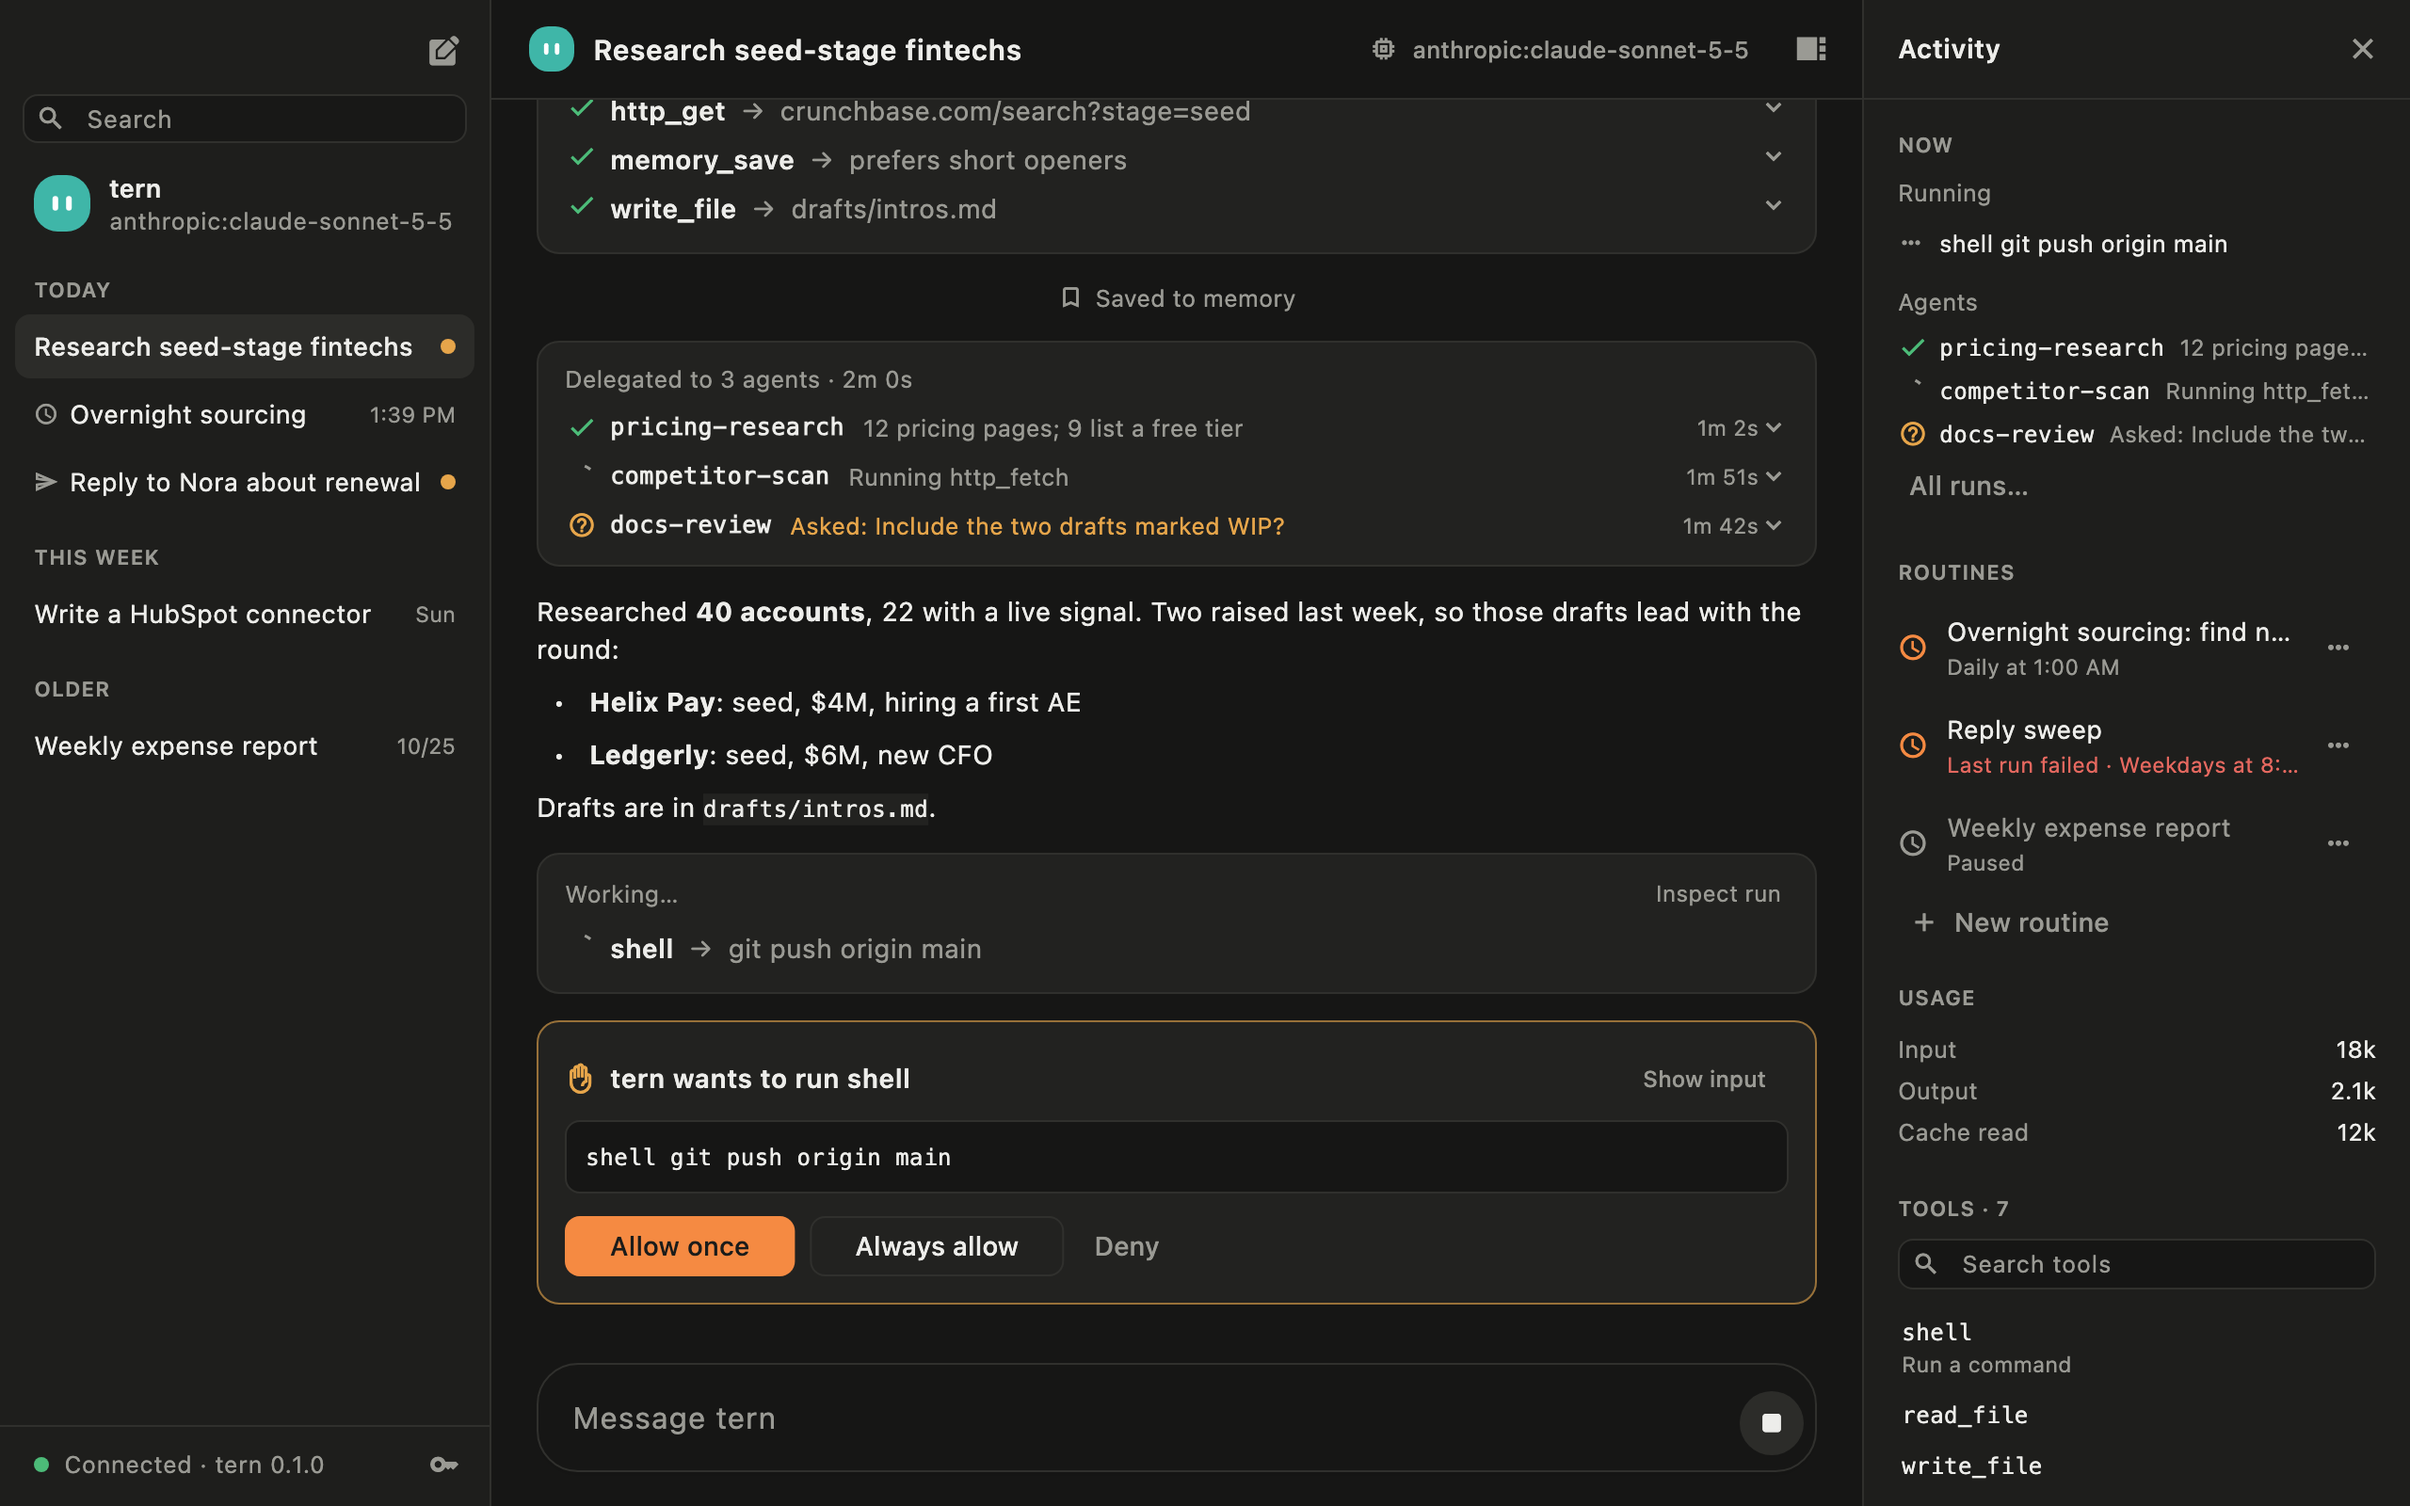
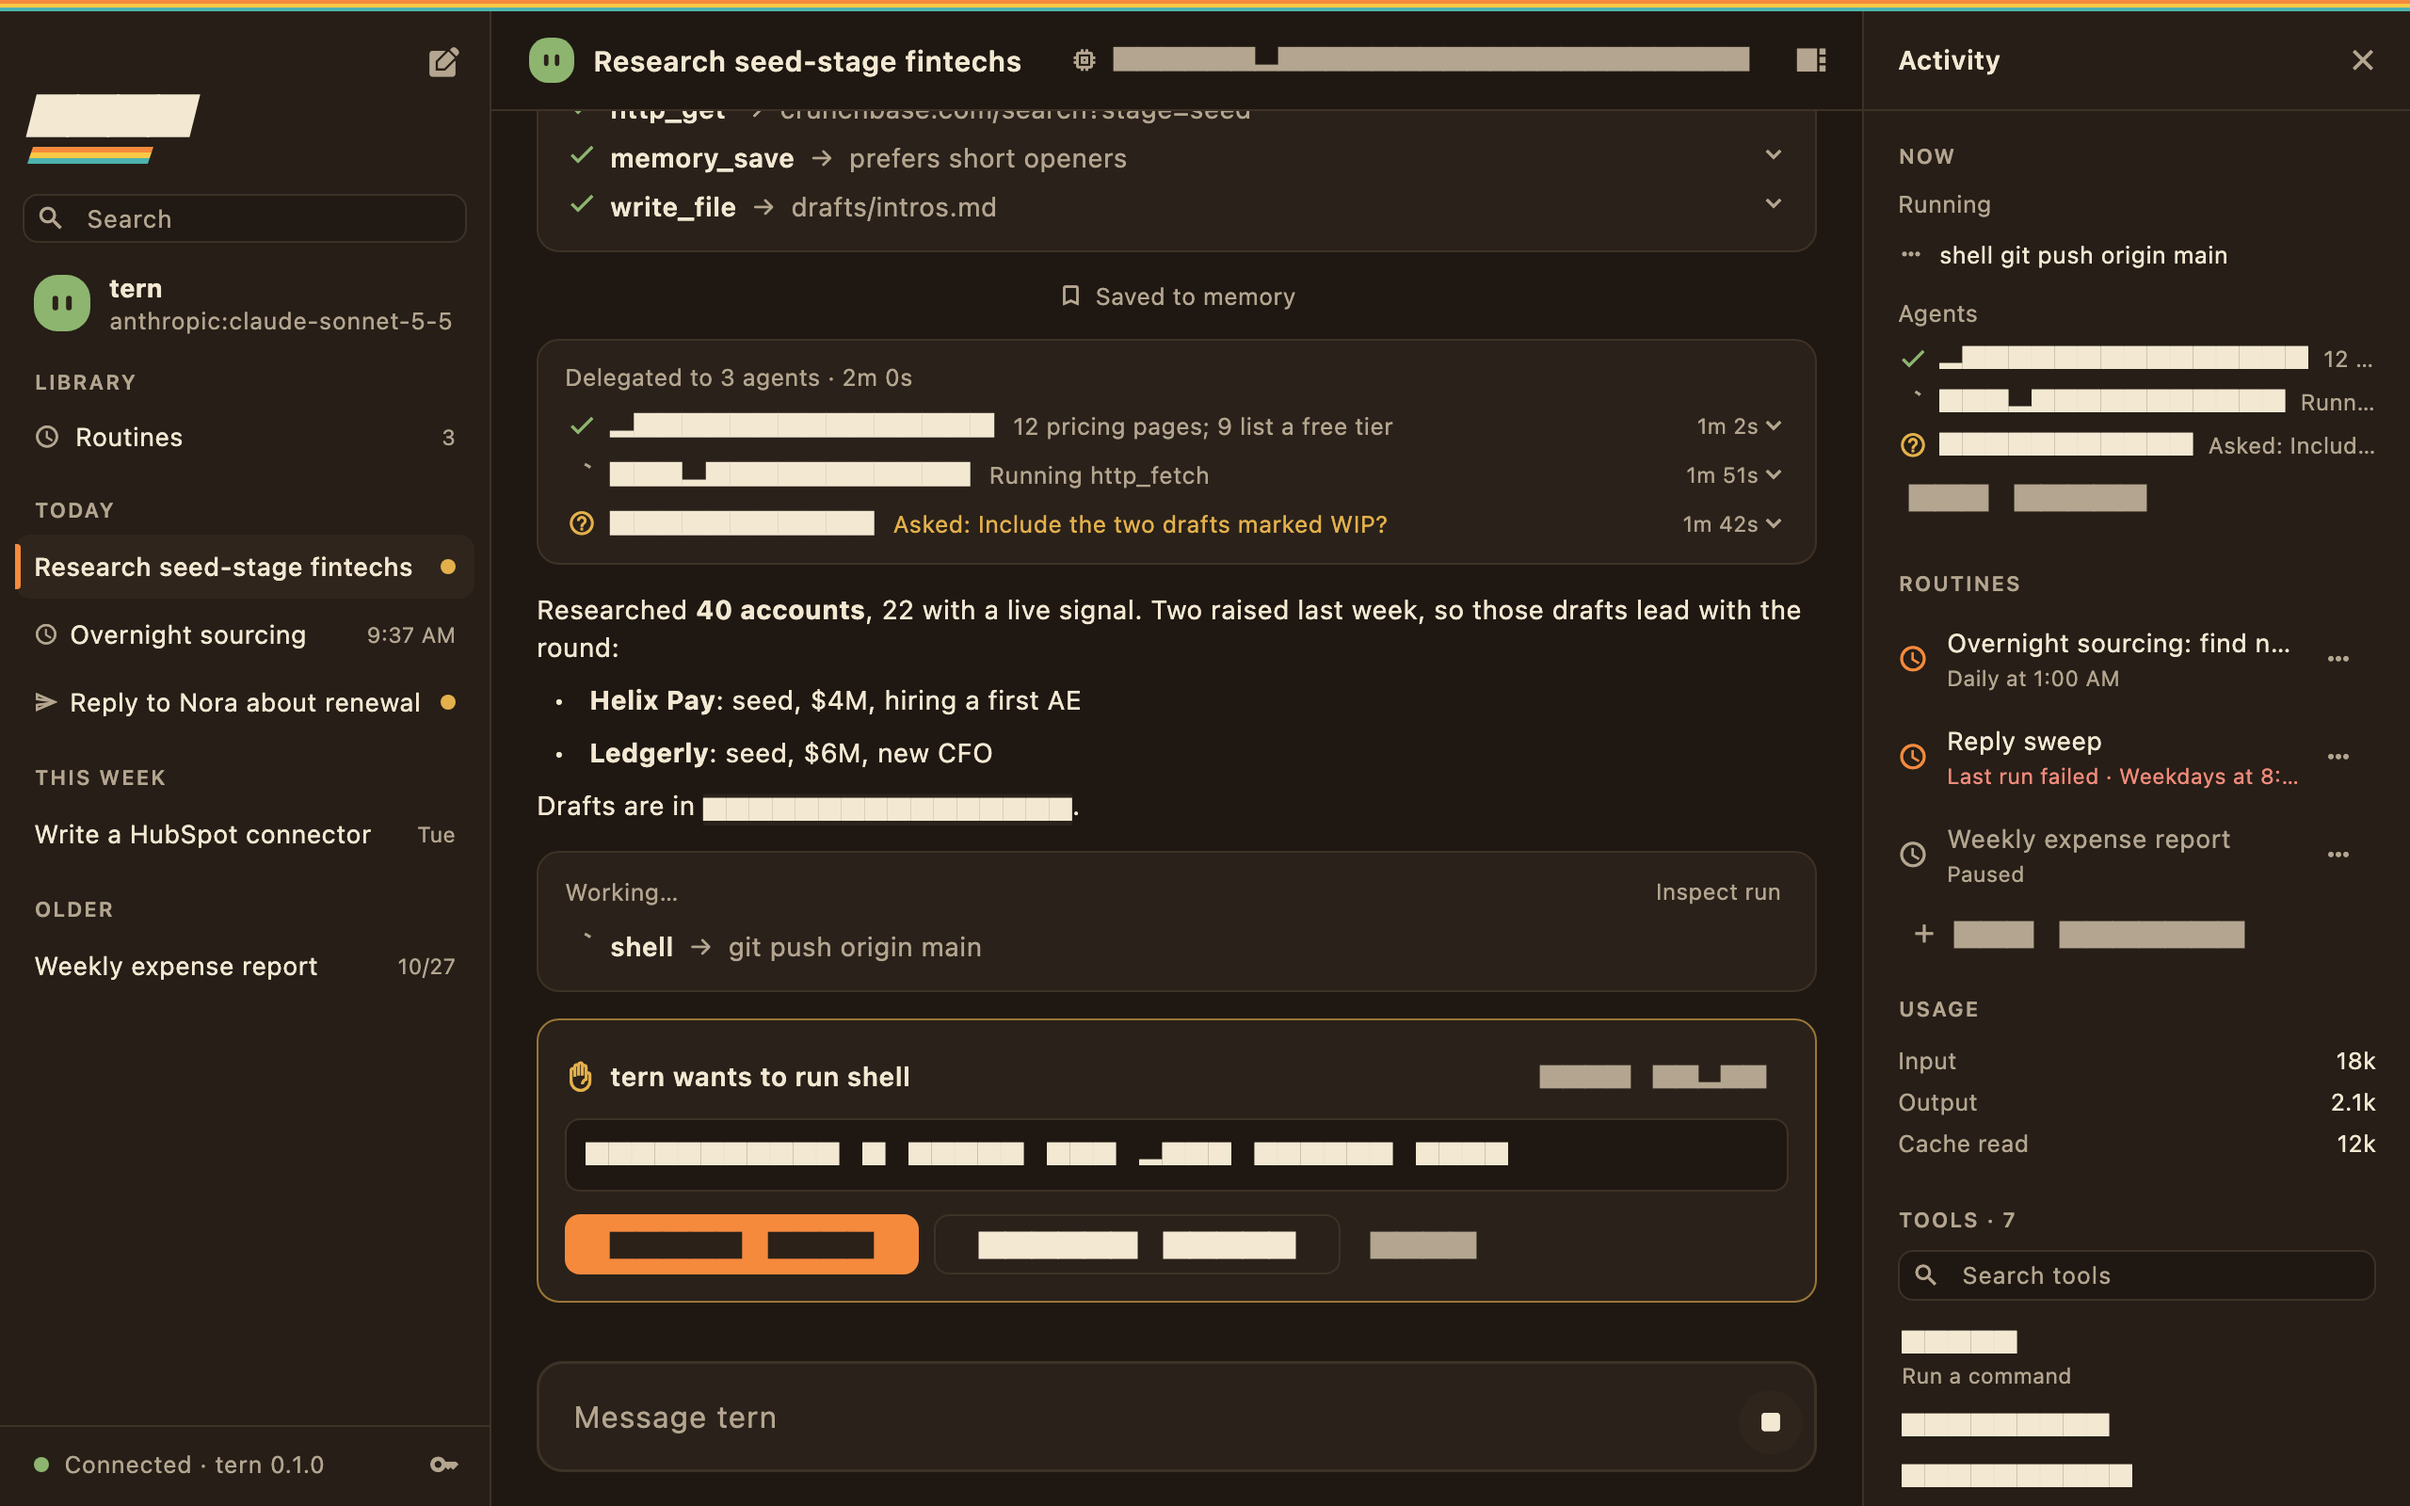
Brand: stripe is now orange / yellow / teal (red read as a flag on dark); red kept for destructive only

diff --git a/docs/brand/style-sheet.html b/docs/brand/style-sheet.html
@@ -10,7 +10,8 @@
 <style>
 :root {
   /* stripes */
-  --red: #D93A2B;
+  --red: #D93A2B; /* destructive only, not a stripe */
+  --teal: #2A8C8C;
   --orange: #F07A2B;
   --yellow: #F6B92B;
   /* surfaces */
@@ -43,9 +44,9 @@ body {
 /* ---------- the stripe motif ---------- */
 .stripes { display: grid; gap: 0; }
 .stripes i { display: block; }
-.stripes i:nth-child(1) { background: var(--red); }
-.stripes i:nth-child(2) { background: var(--orange); }
-.stripes i:nth-child(3) { background: var(--yellow); }
+.stripes i:nth-child(1) { background: var(--orange); }
+.stripes i:nth-child(2) { background: var(--yellow); }
+.stripes i:nth-child(3) { background: var(--teal); }
 .stripes.h > i { height: var(--t, 10px); }
 .stripes.v { grid-auto-flow: column; }
 .stripes.v > i { width: var(--t, 10px); }
@@ -138,7 +139,7 @@ p.lede { max-width: 620px; color: var(--muted); margin-bottom: 8px; }
 .dark-panel {
   --cream: #1F1812; --paper: #2A211A; --sand: #261E17; --hairline: #3D3226;
   --ink: #F3E8D2; --muted: #B3A58F; --link: #F08A7A;
-  --red: #E5483A; --orange: #F58A3D; --yellow: #F9C846;
+  --red: #E5483A; --teal: #4DB3AE; --orange: #F58A3D; --yellow: #F9C846;
   --ok: #8DB56F; --warn: #E3B04B; --error: #F08A7A;
   background: var(--cream); color: var(--ink); border-radius: 14px; padding: 28px; border: 1px solid var(--hairline);
 }
@@ -177,11 +178,11 @@ footer { padding: 40px 0 64px; border-top: 1px solid var(--hairline); color: var
   <!-- 01 -->
   <section>
     <div class="sec-head"><span class="n">01</span><h2>Stripe colors</h2></div>
-    <p class="lede">The three stripes are the whole brand. Always stacked in this order, red on top, orange in the middle, yellow on the bottom. They are decoration and emphasis, not body text.</p>
+    <p class="lede">The three stripes are the whole brand. Always stacked in this order, orange on top, yellow in the middle, teal on the bottom. They are decoration and emphasis, not body text.</p>
     <div class="stripe-row" style="margin-top:20px">
-      <div class="sw"><div class="chip" style="background:var(--red)"></div><div class="meta"><b>Stripe Red</b><code>#D93A2B</code><small>Danger fill, top stripe, destructive buttons.</small></div></div>
-      <div class="sw"><div class="chip" style="background:var(--orange)"></div><div class="meta"><b>Stripe Orange</b><code>#F07A2B</code><small>The primary accent. Primary buttons, selection edge, focus. Carries over from today's app.</small></div></div>
-      <div class="sw"><div class="chip" style="background:var(--yellow)"></div><div class="meta"><b>Stripe Yellow</b><code>#F6B92B</code><small>Highlights, hover, focus glow, bottom stripe.</small></div></div>
+      <div class="sw"><div class="chip" style="background:var(--orange)"></div><div class="meta"><b>Stripe Orange</b><code>#F07A2B</code><small>Top stripe and the primary accent. Primary buttons, selection edge, focus.</small></div></div>
+      <div class="sw"><div class="chip" style="background:var(--yellow)"></div><div class="meta"><b>Stripe Yellow</b><code>#F6B92B</code><small>Middle stripe. Highlights, hover, focus glow.</small></div></div>
+      <div class="sw"><div class="chip" style="background:var(--teal)"></div><div class="meta"><b>Stripe Teal</b><code>#2A8C8C</code><small>Bottom stripe only. Replaces red, which read as a flag on dark. Destructive buttons still use red.</small></div></div>
     </div>
 
     <h3>Paper and ink</h3>
@@ -316,7 +317,7 @@ footer { padding: 40px 0 64px; border-top: 1px solid var(--hairline); color: var
         <span class="pill warn"><span class="dot"></span>Waiting</span>
         <span class="pill err"><span class="dot"></span>Failed</span>
       </div>
-      <p style="margin-top:16px;font-size:13px;color:var(--muted)">Dark stripes: red <code style="font-family:var(--mono)">#E5483A</code> · orange <code style="font-family:var(--mono)">#F58A3D</code> · yellow <code style="font-family:var(--mono)">#F9C846</code>. Primary button text stays dark ink in both modes.</p>
+      <p style="margin-top:16px;font-size:13px;color:var(--muted)">Dark stripes: orange <code style="font-family:var(--mono)">#F58A3D</code> · yellow <code style="font-family:var(--mono)">#F9C846</code> · teal <code style="font-family:var(--mono)">#4DB3AE</code>. Primary button text stays dark ink in both modes.</p>
     </div>
   </section>
 
@@ -329,7 +330,7 @@ footer { padding: 40px 0 64px; border-top: 1px solid var(--hairline); color: var
         <ul>
           <li>Keep the background cream and let the stripes be the only loud thing.</li>
           <li>Use ink for text and for any border that means "you can click this".</li>
-          <li>Stack stripes red, orange, yellow, top to bottom or left to right.</li>
+          <li>Stack stripes orange, yellow, teal, top to bottom or left to right.</li>
           <li>Keep copy plain and short. Sentence case.</li>
           <li>Leave generous empty space. Simple beats busy.</li>
         </ul>

diff --git a/apps/desktop/lib/theme.dart b/apps/desktop/lib/theme.dart
@@ -1,7 +1,7 @@
 import 'package:flutter/material.dart';
 
 /// Design tokens (docs/brand/brand-guide.md). Cream paper, ink, and the
-/// red / orange / yellow racing stripe. Light by default; dark is its own
+/// orange / yellow / teal racing stripe. Light by default; dark is its own
 /// set, not an inversion.
 @immutable
 class TernColors extends ThemeExtension<TernColors> {
@@ -21,9 +21,9 @@ class TernColors extends ThemeExtension<TernColors> {
     required this.selection,
     required this.ink,
     required this.link,
-    required this.stripeRed,
     required this.stripeOrange,
     required this.stripeYellow,
+    required this.stripeTeal,
   });
 
   final Color background;
@@ -43,9 +43,9 @@ class TernColors extends ThemeExtension<TernColors> {
   /// Interactive borders and strong text; `text` is the same colour.
   final Color ink;
   final Color link;
-  final Color stripeRed;
   final Color stripeOrange;
   final Color stripeYellow;
+  final Color stripeTeal;
 
   static const light = TernColors(
     background: Color(0xFFF7EEDC),
@@ -63,9 +63,9 @@ class TernColors extends ThemeExtension<TernColors> {
     selection: Color(0xFFEFE3CB),
     ink: Color(0xFF2B2118),
     link: Color(0xFFB3281D),
-    stripeRed: Color(0xFFD93A2B),
     stripeOrange: Color(0xFFF07A2B),
     stripeYellow: Color(0xFFF6B92B),
+    stripeTeal: Color(0xFF2A8C8C),
   );
 
   static const dark = TernColors(
@@ -84,9 +84,9 @@ class TernColors extends ThemeExtension<TernColors> {
     selection: Color(0xFF2F251C),
     ink: Color(0xFFF3E8D2),
     link: Color(0xFFF08A7A),
-    stripeRed: Color(0xFFE5483A),
     stripeOrange: Color(0xFFF58A3D),
     stripeYellow: Color(0xFFF9C846),
+    stripeTeal: Color(0xFF4DB3AE),
   );
 
   @override
@@ -239,7 +239,7 @@ TextStyle wordmarkStyle(double size, Color color) => TextStyle(
   color: color,
 );
 
-/// The racing stripe: three hard-edged bars, red / orange / yellow, never
+/// The racing stripe: three hard-edged bars, orange / yellow / teal, never
 /// reordered. [slant] skews it -18° for the Baja look.
 class Stripes extends StatelessWidget {
   const Stripes({
@@ -259,9 +259,9 @@ class Stripes extends StatelessWidget {
   Widget build(BuildContext context) {
     final c = context.colors;
     final bars = [
-      c.stripeRed,
       c.stripeOrange,
       c.stripeYellow,
+      c.stripeTeal,
     ].map((color) => Expanded(child: ColoredBox(color: color))).toList();
     final box = vertical
         ? SizedBox(

diff --git a/docs/brand/brand-guide.md b/docs/brand/brand-guide.md
@@ -2,7 +2,7 @@
 
 Visual reference: [style-sheet.html](style-sheet.html). That sheet is the source of truth for how things look; this file is the source of truth for the rules and values. If they disagree, fix the sheet.
 
-**The idea:** vintage Toyota racing stripe, Baja racer. Warm cream paper, sharp ink, and one red / orange / yellow stripe. Simple, warm, clean.
+**The idea:** vintage Toyota racing stripe, Baja racer. Warm cream paper, sharp ink, and one orange / yellow / teal stripe. Simple, warm, clean.
 
 ## 1. Color
 
@@ -12,9 +12,11 @@ All colors are tokens. Never hard-code a hex in UI code; use the token.
 
 | Token    | Light     | Dark      | Use |
 |----------|-----------|-----------|-----|
-| `red`    | `#D93A2B` | `#E5483A` | Top stripe, destructive fills |
-| `orange` | `#F07A2B` | `#F58A3D` | Primary accent: primary buttons, selection edge |
-| `yellow` | `#F6B92B` | `#F9C846` | Bottom stripe, hover, focus glow, highlights |
+| `orange` | `#F07A2B` | `#F58A3D` | Top stripe, primary accent: primary buttons, selection edge |
+| `yellow` | `#F6B92B` | `#F9C846` | Middle stripe, hover, focus glow, highlights |
+| `teal`   | `#2A8C8C` | `#4DB3AE` | Bottom stripe only. Not for text or fills elsewhere |
+
+Red is not a stripe color: on a dark background red, orange and yellow read as a national flag. `red` (`#D93A2B` light, `#E5483A` dark) exists only for destructive fills.
 
 ### Surfaces and text
 
@@ -39,14 +41,14 @@ All colors are tokens. Never hard-code a hex in UI code; use the token.
 ### Color rules
 
 - Body text is `ink` (or `muted` for secondary). Never orange or yellow text on cream; they fail contrast.
-- Text on an orange, yellow, or red-accent fill is `ink`, never white. Exception: text on the `red` destructive button is `paper`.
+- Text on an orange, yellow, or teal fill is `ink`, never white. Exception: text on the `red` destructive button is `paper`.
 - The background is always warm. No pure white, no pure black, no neutral gray.
 - Dark mode is its own palette, not an inversion. Primary button text stays dark `ink` (`#2B2118`) in both modes.
 - No gradients, glows, glass, or drop shadows. Depth comes from `paper` vs `sand` vs `cream`.
 
 ## 2. The stripe
 
-Three bars, hard-edged, no gaps, always in this order: red, orange, yellow (top to bottom, or left to right when vertical). Never reorder, recolor, or space them.
+Three bars, hard-edged, no gaps, always in this order: orange, yellow, teal (top to bottom, or left to right when vertical). Never reorder, recolor, or space them.
 
 | Variant   | Bar thickness | Use |
 |-----------|---------------|-----|
@@ -127,4 +129,4 @@ Plain, short, calm. Sentence case. Say what happened and what is needed next. No
 | `userBubble` | `sand` |
 | `selection` | `sand`, with the orange left bar |
 
-New fields to add: `stripeRed`, `stripeOrange`, `stripeYellow`, `link`, `ink` (for interactive borders). The multi-color avatar palette in `ui/widgets.dart` should be reduced to stripe and status colors.
+New fields to add: `stripeOrange`, `stripeYellow`, `stripeTeal`, `link`, `ink` (for interactive borders). The multi-color avatar palette in `ui/widgets.dart` should be reduced to stripe and status colors.
